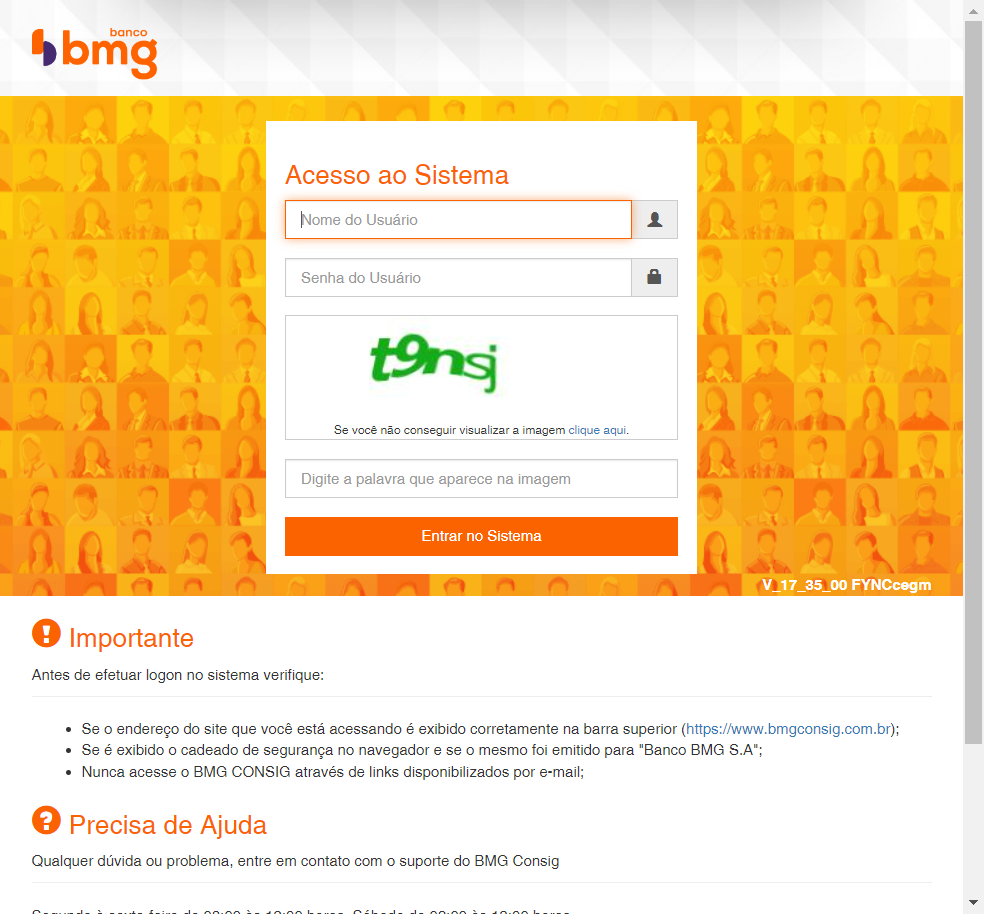
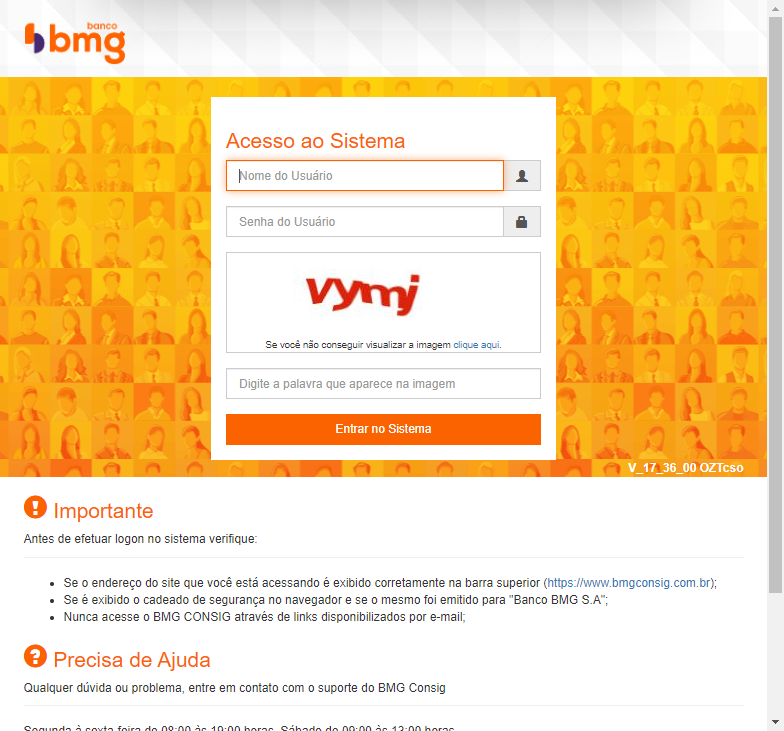
att

diff --git a/enviar_foto_telegram_api.py b/enviar_foto_telegram_api.py
@@ -5,7 +5,10 @@ from webdriver_manager.chrome import ChromeDriverManager
 from selenium.webdriver.chrome.service import Service
 from selenium.webdriver.common.by import By
 import requests
-import telegram
+import telegram 
+import telebot
+import time
+
 
 def getscreenshotofurl(url):
     service2 = Service(ChromeDriverManager().install())
@@ -26,7 +29,7 @@ time.sleep(5)
 
 base_url = 'https://api.telegram.org/bot5360566736:AAEJ2xv0eOPJMYtE23aimJM96LGFW90x8Ws/sendPhoto'
 
-my_file = open(r'C:\Users\Alan\Downloads\Alan\Python\PYTHON\Python\Captcha_BMG.png', 'rb')
+my_file = open(r'D:\Python\Python\Captcha_BMG.png', 'rb')
 
 parametros = {
     "chat_id" : "-837533517",
@@ -40,26 +43,25 @@ files = {
 resp = requests.get(base_url, data=parametros, files=files)
 print(resp.text)
 print('Foto Enviada')
-    
-# Inicializa o bot usando o token fornecido
-bot = telegram.Bot(token='5360566736:AAEJ2xv0eOPJMYtE23aimJM96LGFW90x8Ws')
 
+time.sleep(5)
+    
 # Identificador do grupo
 chat_id = -837533517
 
-# Inicializa uma lista vazia para armazenar as mensagens
-messages = []
+#Iniciar a API do Telegram
+bot = telebot.TeleBot("5360566736:AAEJ2xv0eOPJMYtE23aimJM96LGFW90x8Ws")
 
-# Obtém as últimas 100 mensagens do grupo
-for i in range(100):
-    msg = bot.getUpdates()[i].message
-    if msg.chat.id == chat_id:
-        messages.append(msg.text)
+#Receber a última mensagem 
+ultima_mensagem = bot.get_updates()[-1]
 
-# Exibe as mensagens coletadas
-for message in messages:
-    print(message)
+ultima_mensagem.message()
 
+#Armazenar a última mensagem em uma string 
+ultima_mensagem_string = str(ultima_mensagem)
+
+#Imprimir a string com a última mensagem
+print(ultima_mensagem_string)
 
 
 

diff --git a/Salvar_Cookies.py b/Salvar_Cookies.py
@@ -1,0 +1,26 @@
+#1 - Importar a biblioteca Requests 
+import requests
+
+#2 - Definir a url do site 
+url = 'http://www.example.com/'
+
+#3 - Fazer uma requisição GET para a url 
+r = requests.get(url)
+
+#4 - Salvar os cookies 
+cookies = r.cookies
+
+#5 - Definir a url de login 
+url_login = 'http://www.example.com/login/'
+
+#6 - Definir os dados para login 
+data = {'username': 'user', 'password': 'pass'} 
+
+#7 - Fazer uma requisição POST para a url de login usando os cookies 
+r_login = requests.post(url_login, cookies=cookies, data=data)
+
+#8 - Verificar se o login foi feito com sucesso 
+if r_login.status_code == 200: 
+    print('Login com sucesso!') 
+else: 
+    print('login fail')

diff --git a/bot_telegram.py b/bot_telegram.py
@@ -6,23 +6,14 @@ import os
 from datetime import datetime
 
 # Acesso ao grupo e Robo
-token = 'seu TOken'
-chat_id = 'seu id' 
+token = 'seu Token'
+chat_id = 'seu chat-id' 
 
 url = (f'https://api.telegram.org/bot{token}/sendMessage?chat_id={chat_id}')
 
-messages = []
+messages = ['Escreva sua mensagem aqui']
 
-# Mensagem enviada
-for update in url.getUpdates():
-    if update.message and update.message.chat.id == chat_id:
-        messages.append(update.message)
-
-# Formatando o envio das mensagens
-
-# Now you have a list of messages from the group
-for message in messages:
-    print(message.text)
-
-
+# enviando a mensagem
+req = requests.post(url)
+print(req)
 

diff --git a/hora.py b/hora.py
@@ -6,9 +6,12 @@ from datetime import time
 
 
 while True:
+    # Data e hora de hoje de acordo com seu sistema operacional
     agora = datetime.now()
+    # Definindo a variável tempo e formatando somente com o desejado, no nosso caso hora e minuto
     t = agora.strftime('%H:%M')
-    t2 = agora.replace(hour=10, minute=31)
+    # Agora substituindo a hora atual com a hora que desejamos 
+    t2 = agora.replace(hour=21, minute=4)
     t_simplificado = t2.strftime('%H:%M')
 
     if t >= t_simplificado:

diff --git a/zoom.py b/zoom.py
@@ -8,3 +8,4 @@ driver = webdriver.Chrome(service=service)
 driver.get('https:www.youtube.com.br')
 time.sleep(3)
 driver.execute_script("document.body.style.zoom='50%'")
+time.sleep(999)
